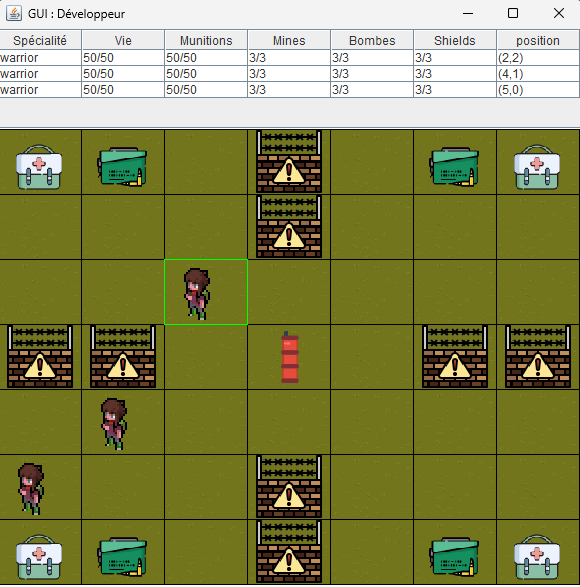
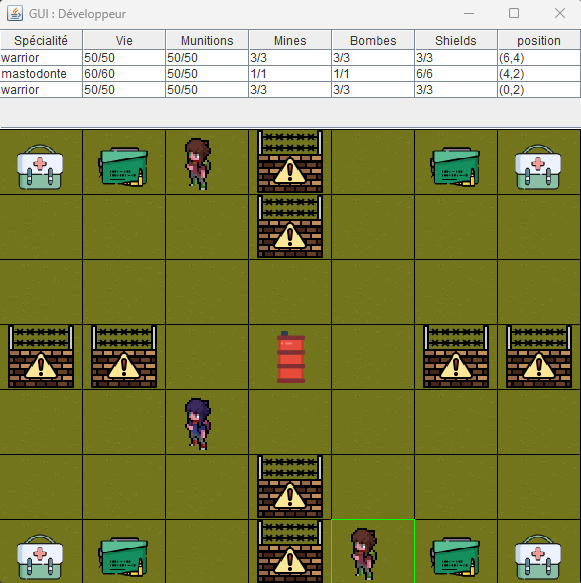
modif taille barrel

Changed region(s): [[0.0, 0.2161, 1.0, 1.0], [0.0, 0.0, 0.9931, 0.1852], [0.869, 0.0, 0.9, 0.0309]]

diff --git a/src/gridarena/view/BattlefieldView.java b/src/gridarena/view/BattlefieldView.java
@@ -55,7 +55,7 @@ public class BattlefieldView extends JPanel implements ModelListener {
                         String imageUrl = map[i][j].getImageUrl();
                         Image img = new ImageIcon(getClass().getResource(imageUrl)).getImage();
                         if (map[i][j] instanceof Barrel) {
-                            g.drawImage(img, x + cellWidth / 3 + 3, y + cellHeight / 5 - 6, 13 * 2, 26 * 2, null);
+                            g.drawImage(img, (x + cellWidth / 2)-20, y + cellHeight / 5 - 6, 22 * 2, 26 * 2, null);
                         } else if (map[i][j] instanceof Wall) {
                             g.drawImage(img, x+8, y, cellWidth-15, cellHeight, null);
                         } else if (map[i][j] instanceof Explosive) {
